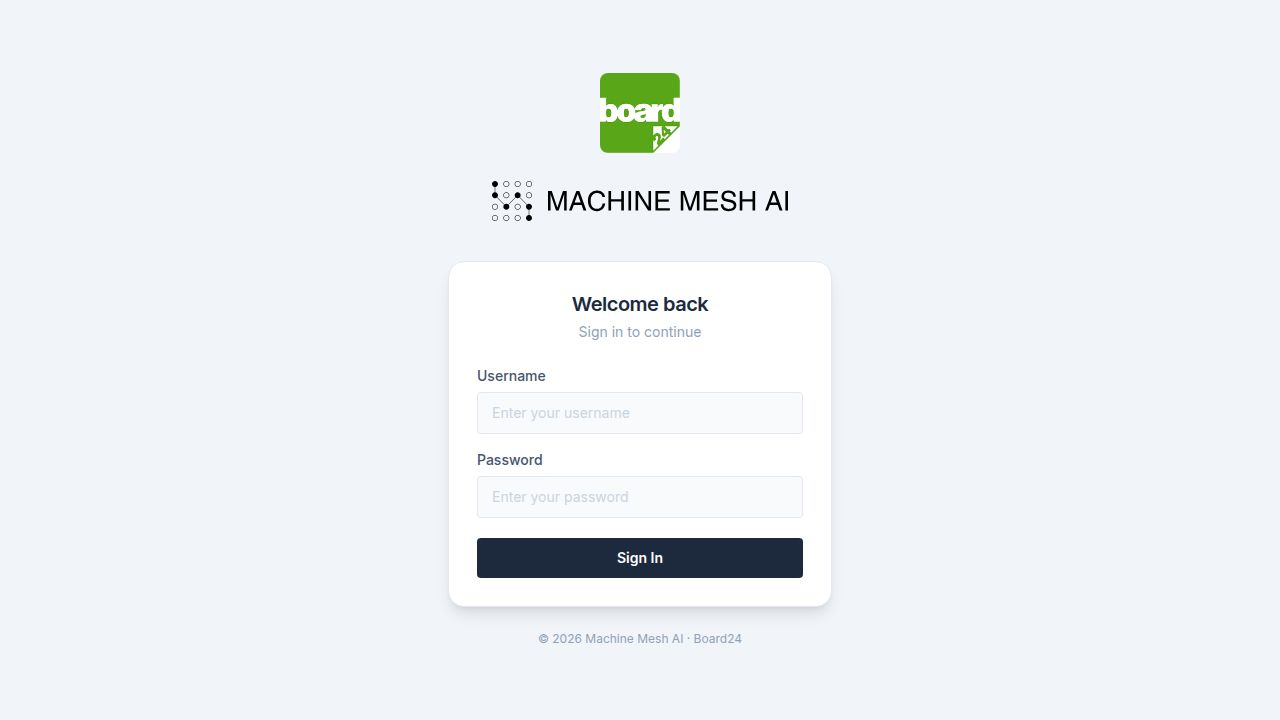
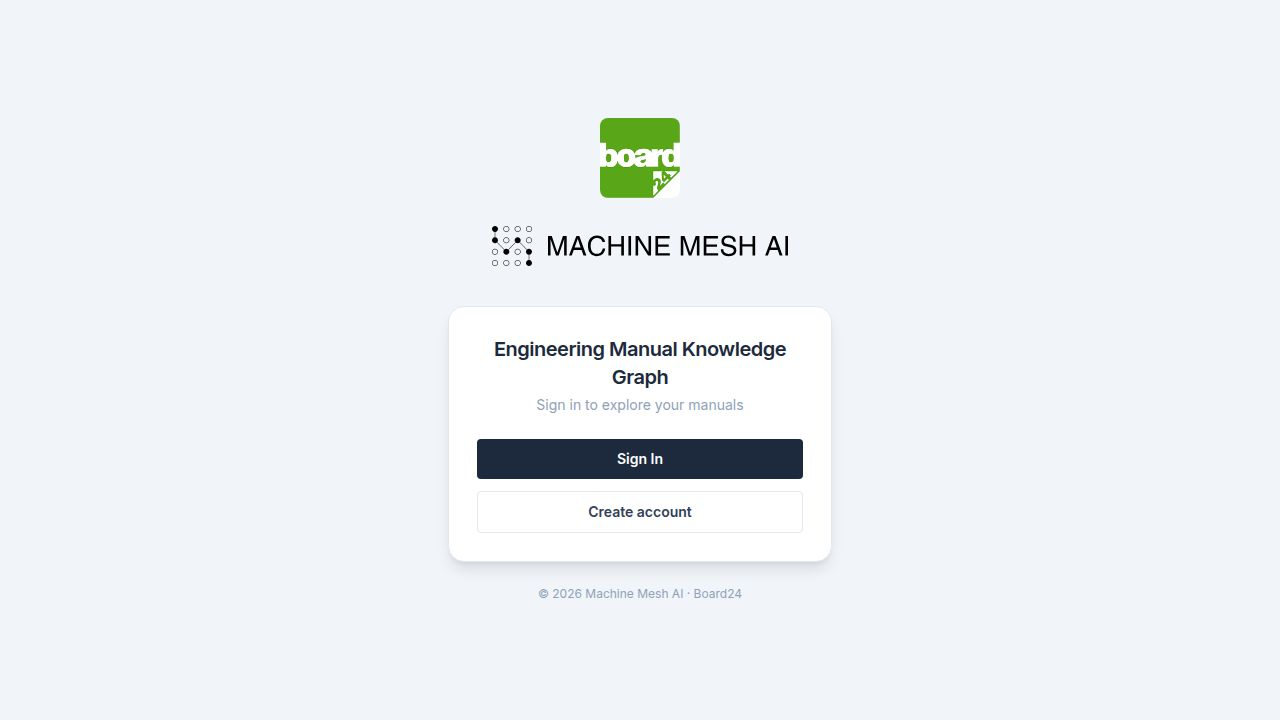
Add an access denied screen for unauthorized users
Implement an `AccessGate` component that checks user authorization via `useGetGlobalStats`. If a 403 error occurs, it renders a user-friendly `AccessDeniedPage` instead of the main application routes. This prevents broken dashboards for uninvited users and provides a clear sign-out option. Non-403 errors fall through to `AppRoutes`.

Replit-Commit-Author: Agent
Replit-Commit-Session-Id: 54d0bd35-9986-49cf-bdfe-aef8e29836bb
Replit-Commit-Checkpoint-Type: full_checkpoint
Replit-Commit-Event-Id: 1bea6d15-569d-443d-ad74-337d81ac29a7
Replit-Commit-Screenshot-Url: https://storage.googleapis.com/screenshot-production-us-central1/c867db5b-b419-45e8-8c08-2c1d8626bd1d/54d0bd35-9986-49cf-bdfe-aef8e29836bb/AYBuaDq
Replit-Helium-Checkpoint-Created: true

diff --git a/artifacts/manual-graph/src/pages/access-denied-page.tsx b/artifacts/manual-graph/src/pages/access-denied-page.tsx
@@ -1,0 +1,42 @@
+import { useClerk, useUser } from "@clerk/react";
+import { ShieldX } from "lucide-react";
+import { Button } from "@/components/ui/button";
+
+const basePath = import.meta.env.BASE_URL.replace(/\/$/, "");
+
+export default function AccessDeniedPage() {
+  const { signOut } = useClerk();
+  const { user } = useUser();
+  const email = user?.primaryEmailAddress?.emailAddress;
+
+  return (
+    <div className="flex min-h-[100dvh] items-center justify-center bg-slate-100 px-4">
+      <div className="w-[440px] max-w-full rounded-2xl border border-slate-200 bg-white p-8 text-center shadow-lg">
+        <div className="mx-auto mb-5 flex h-14 w-14 items-center justify-center rounded-full bg-red-50">
+          <ShieldX className="h-7 w-7 text-red-600" />
+        </div>
+        <h1 className="text-xl font-semibold text-slate-800">
+          Access not authorized
+        </h1>
+        <p className="mt-3 text-sm leading-relaxed text-slate-500">
+          {email ? (
+            <>
+              The account <span className="font-medium text-slate-700">{email}</span>{" "}
+              isn&apos;t on the invite list for this app.
+            </>
+          ) : (
+            <>Your account isn&apos;t on the invite list for this app.</>
+          )}{" "}
+          Please contact your administrator to request access.
+        </p>
+        <Button
+          variant="outline"
+          className="mt-6 w-full border-slate-200"
+          onClick={() => signOut({ redirectUrl: basePath || "/" })}
+        >
+          Sign out
+        </Button>
+      </div>
+    </div>
+  );
+}

diff --git a/artifacts/manual-graph/src/App.tsx b/artifacts/manual-graph/src/App.tsx
@@ -13,6 +13,10 @@ import {
   QueryClientProvider,
   useQueryClient,
 } from "@tanstack/react-query";
+import {
+  useGetGlobalStats,
+  getGetGlobalStatsQueryKey,
+} from "@workspace/api-client-react";
 import { Toaster } from "@/components/ui/toaster";
 import { TooltipProvider } from "@/components/ui/tooltip";
 import { Layout } from "@/components/layout";
@@ -22,6 +26,7 @@ import GlobalGraphPage from "@/pages/global-graph-page";
 import AskPage from "@/pages/ask-page";
 import NotFound from "@/pages/not-found";
 import LandingPage from "@/pages/landing-page";
+import AccessDeniedPage from "@/pages/access-denied-page";
 
 const queryClient = new QueryClient();
 
@@ -138,11 +143,39 @@ function AppRoutes() {
   );
 }
 
+// Probes a lightweight authenticated endpoint to determine whether the
+// signed-in user is on the server-side invite allowlist. A 403 means the
+// account is authenticated but not authorized, so we show a friendly screen
+// instead of a dashboard that silently fails to load.
+function AccessGate() {
+  const { error, isLoading } = useGetGlobalStats({
+    query: {
+      retry: false,
+      staleTime: 60_000,
+      queryKey: getGetGlobalStatsQueryKey(),
+    },
+  });
+
+  if (error?.status === 403) {
+    return <AccessDeniedPage />;
+  }
+
+  if (isLoading) {
+    return (
+      <div className="flex min-h-[100dvh] items-center justify-center bg-slate-100">
+        <div className="h-8 w-8 animate-spin rounded-full border-2 border-slate-300 border-t-slate-700" />
+      </div>
+    );
+  }
+
+  return <AppRoutes />;
+}
+
 function ProtectedApp() {
   return (
     <>
       <Show when="signed-in">
-        <AppRoutes />
+        <AccessGate />
       </Show>
       <Show when="signed-out">
         <LandingPage />

diff --git a/.agents/memory/clerk-invite-only.md b/.agents/memory/clerk-invite-only.md
@@ -26,7 +26,9 @@ front.
 api-server workflow. Env vars load at boot, so the in-process allowlist + cache
 are fixed per run — changes require a restart.
 
-**Known UX gap:** a signed-in but non-allowlisted user currently sees a broken
-dashboard (API calls 403) rather than a friendly "access denied" screen. The
-server-side cost protection still holds. A frontend access-denied screen was not
-built (allowlist was off at the time) — add one if invite-only is activated.
+**Frontend gate:** signed-in but non-allowlisted users get a friendly
+access-denied screen (not a broken dashboard). `AccessGate` in `App.tsx` probes
+`useGetGlobalStats`; on `error.status === 403` it renders `access-denied-page.tsx`
+(with Clerk sign-out). This is UX only — server `requireAuth` is the real
+enforcement. Non-403 errors fall through to the app so transient API failures
+don't lock anyone out.